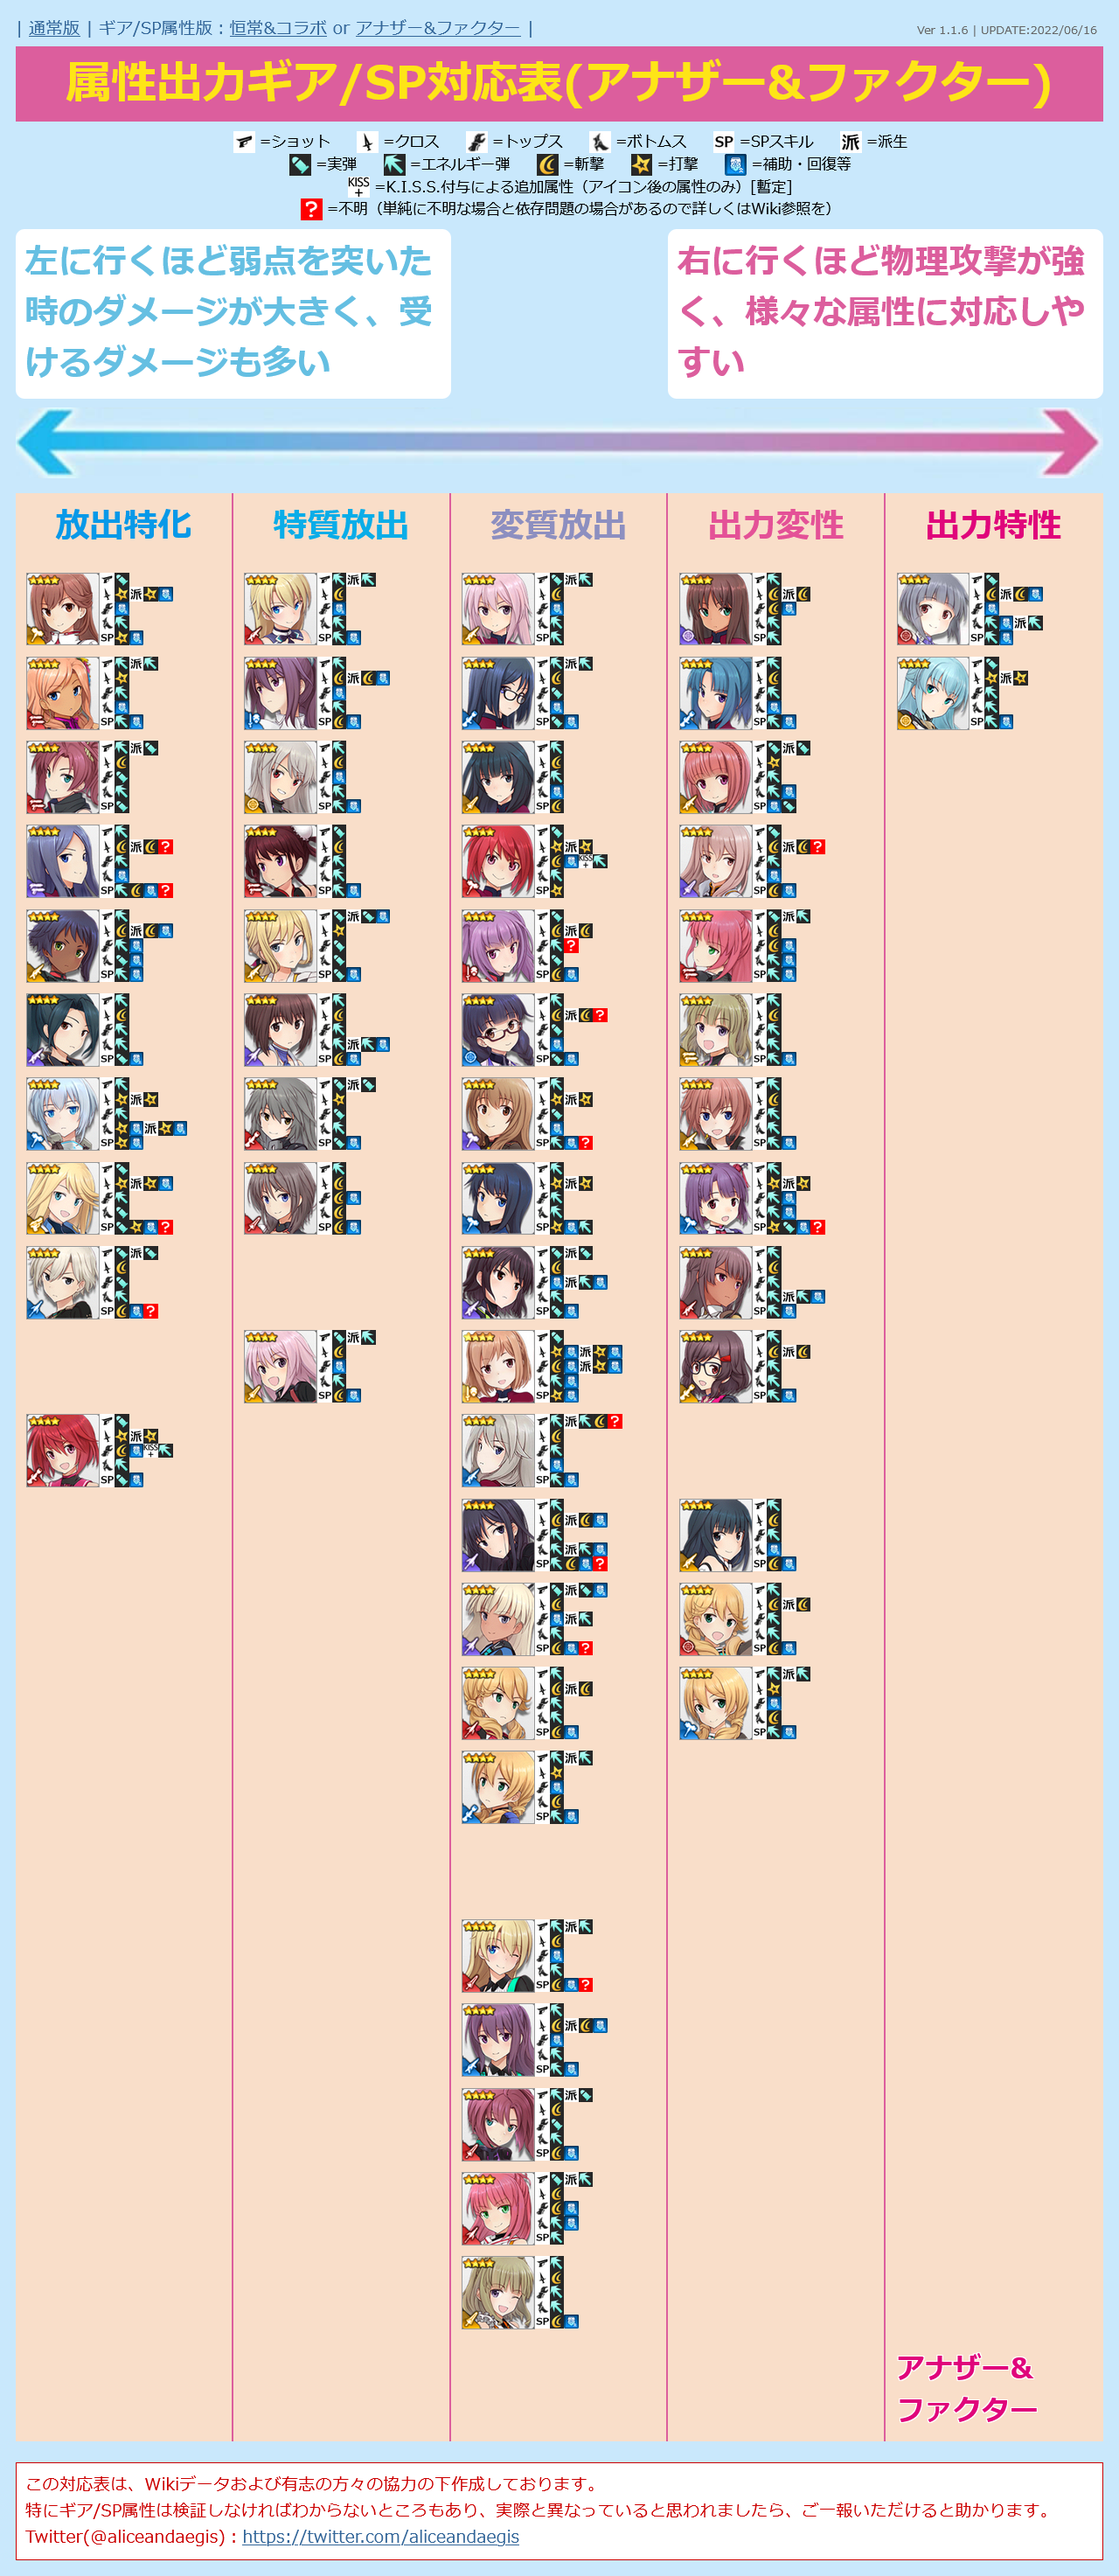
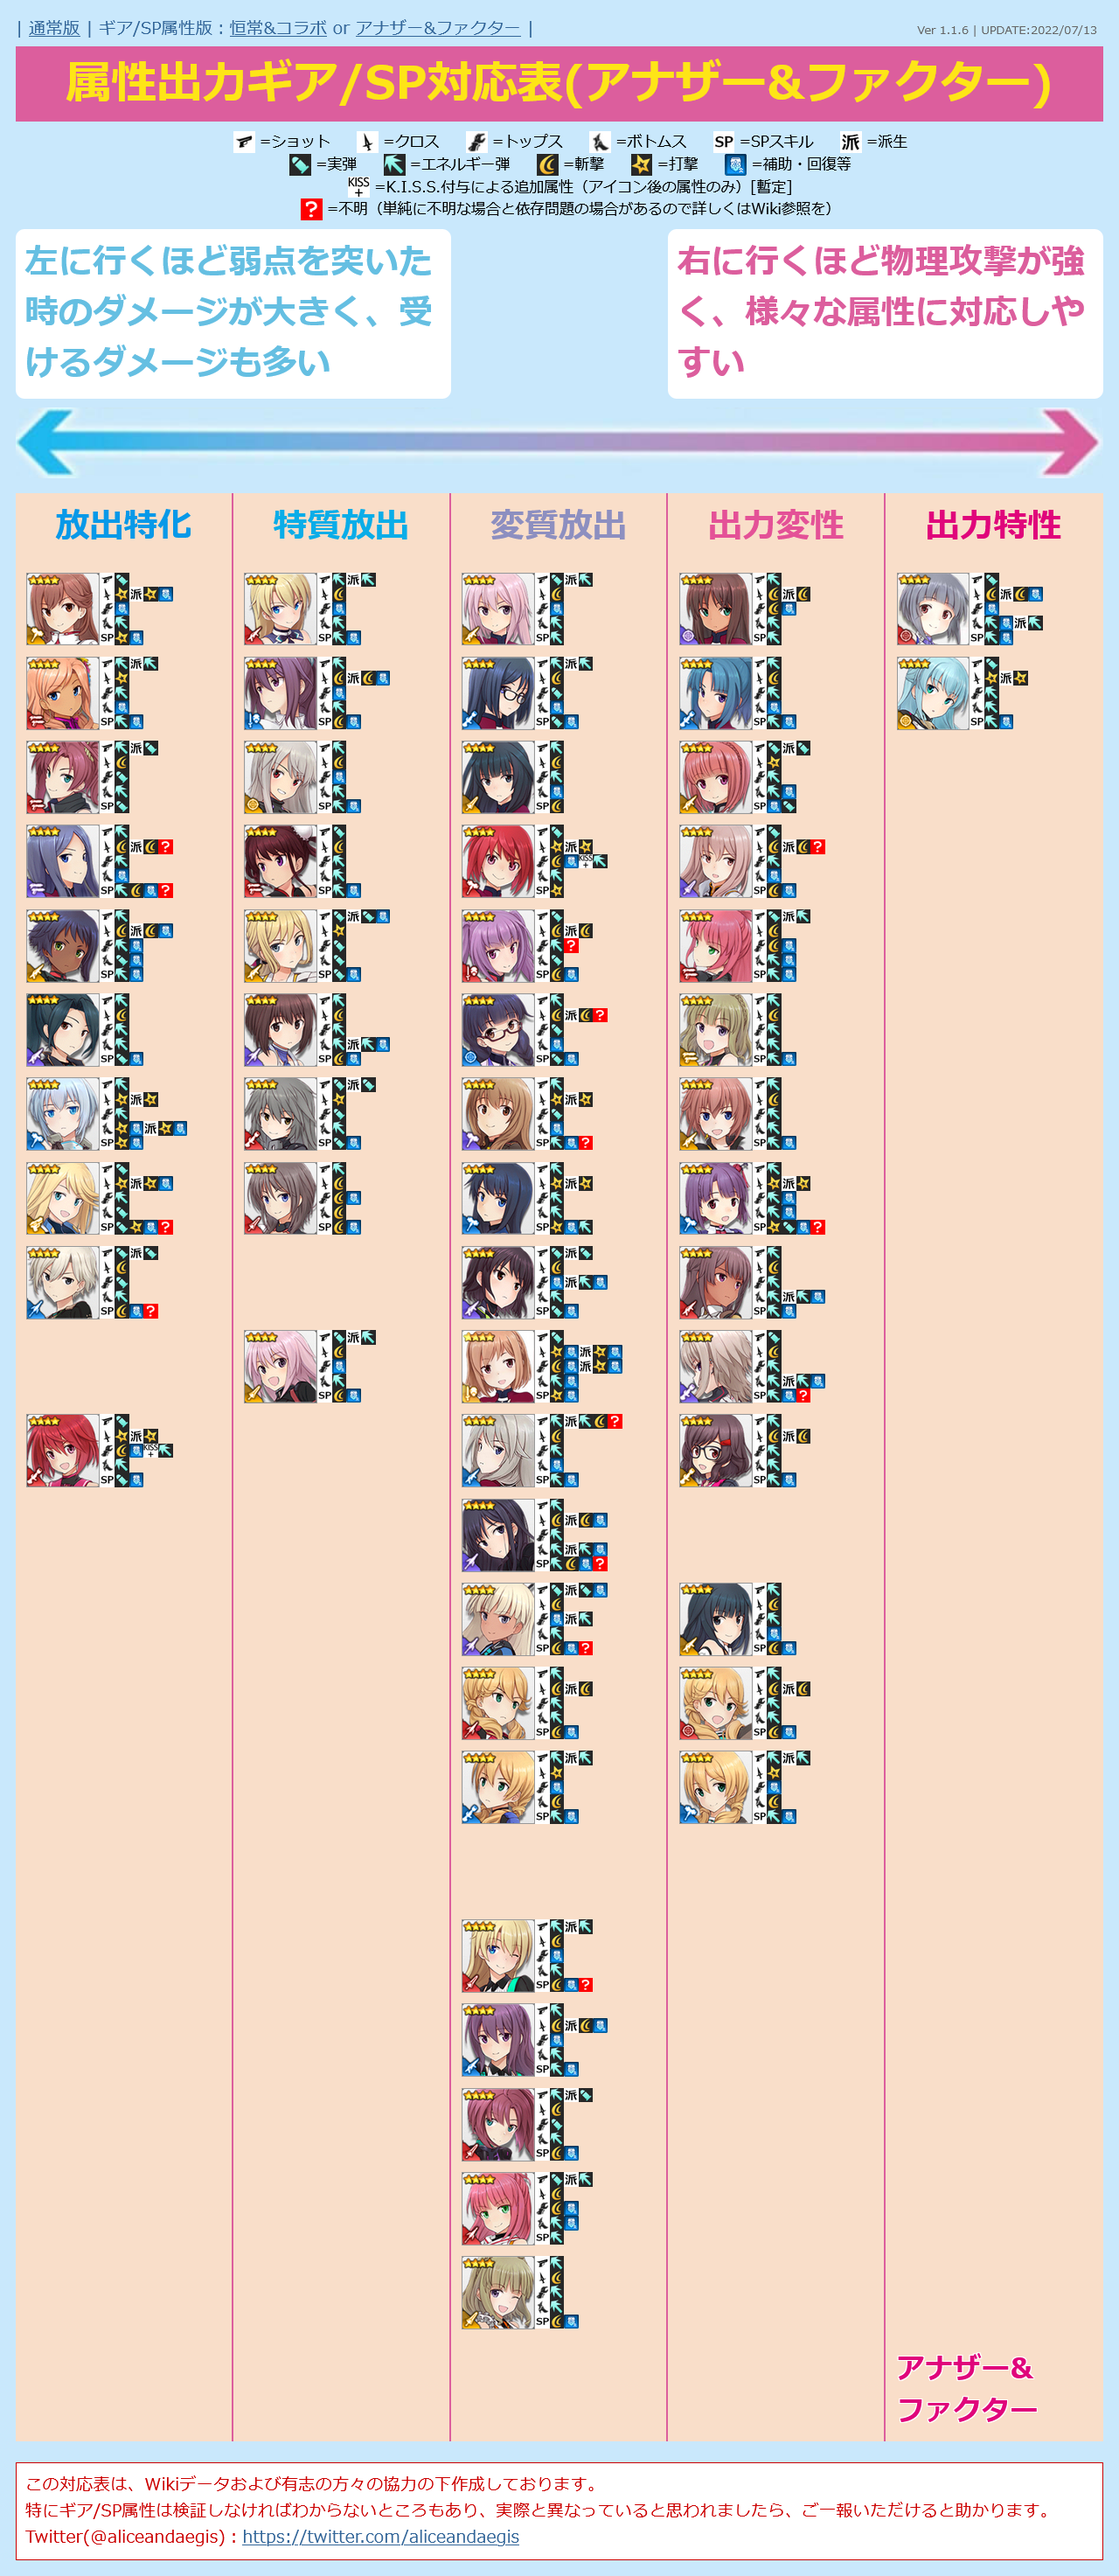
UPDATE charadata
・アナザー 村尾 未羅 / 至純を追加

Changed region(s): [[0.5938, 0.4997, 0.75, 0.7183]]

diff --git a/alice.html b/alice.html
@@ -12,7 +12,7 @@
   <script>
 
 /* 更新情報 必要に応じて書き換えてください */
-  var version = "Ver 1.1.6 | UPDATE:2022/06/29";
+  var version = "Ver 1.1.6 | UPDATE:2022/07/13";
 
 
 /*
@@ -1376,11 +1376,25 @@
       "equip1": "1",
       "equip2": "3",
       "equip3": "2",
-      "equip4": "2",
+      "equip4": "2/25",
       "sp": "3",
       "attr": "2",
       "link": "https://wikiwiki.jp/alicegear/%E6%9D%91%E5%B0%BE%E6%9C%AA%E7%BE%85",
       "category": ""
+    },
+    {
+      "id": "43",
+      "type": "4",
+      "src": "another-mira.png",
+      "name": "村尾 未羅 / 至純",
+      "equip1": "1",
+      "equip2": "3",
+      "equip3": "2",
+      "equip4": "2/25",
+      "sp": "25?",
+      "attr": "2",
+      "link": "https://wikiwiki.jp/alicegear/%E6%9D%91%E5%B0%BE%E6%9C%AA%E7%BE%85%E8%87%B3%E7%B4%94",
+      "category": "10"
     },
     {
       "id": "44",
